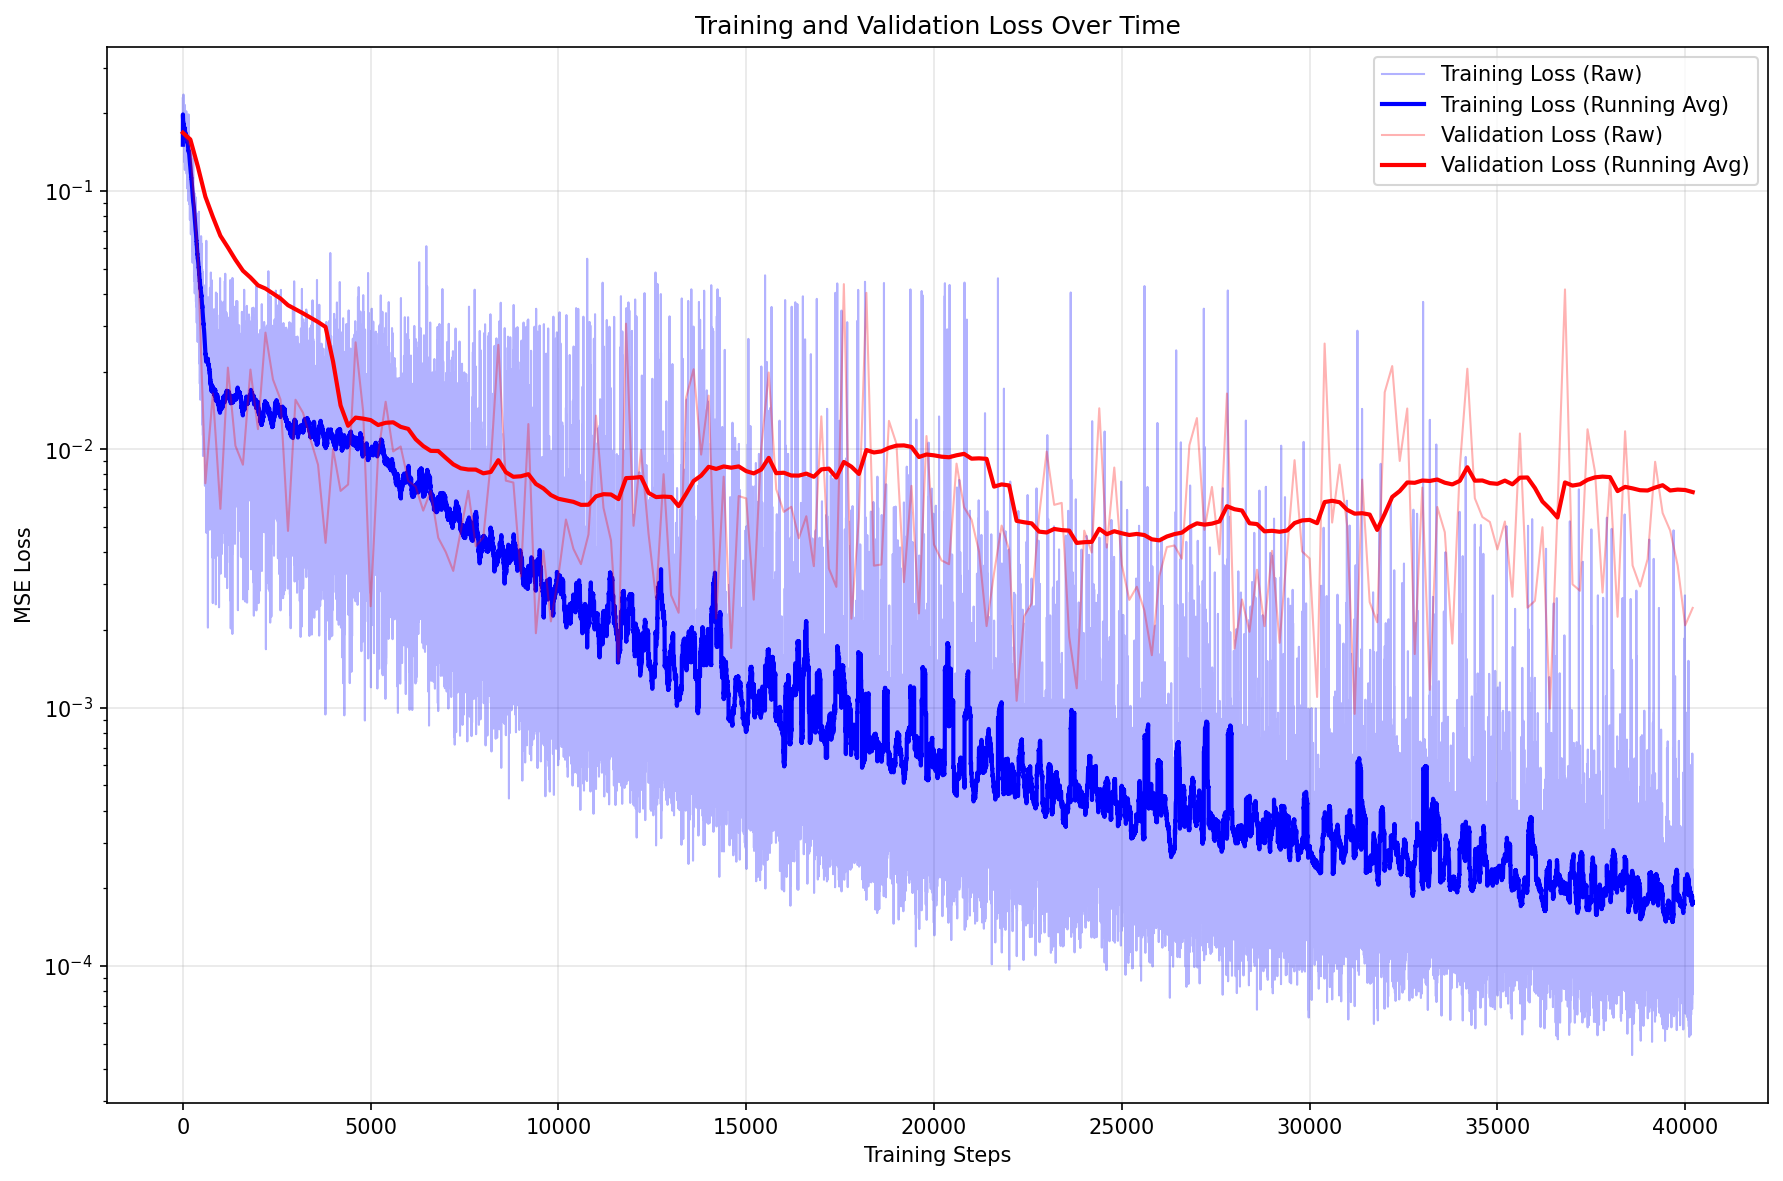
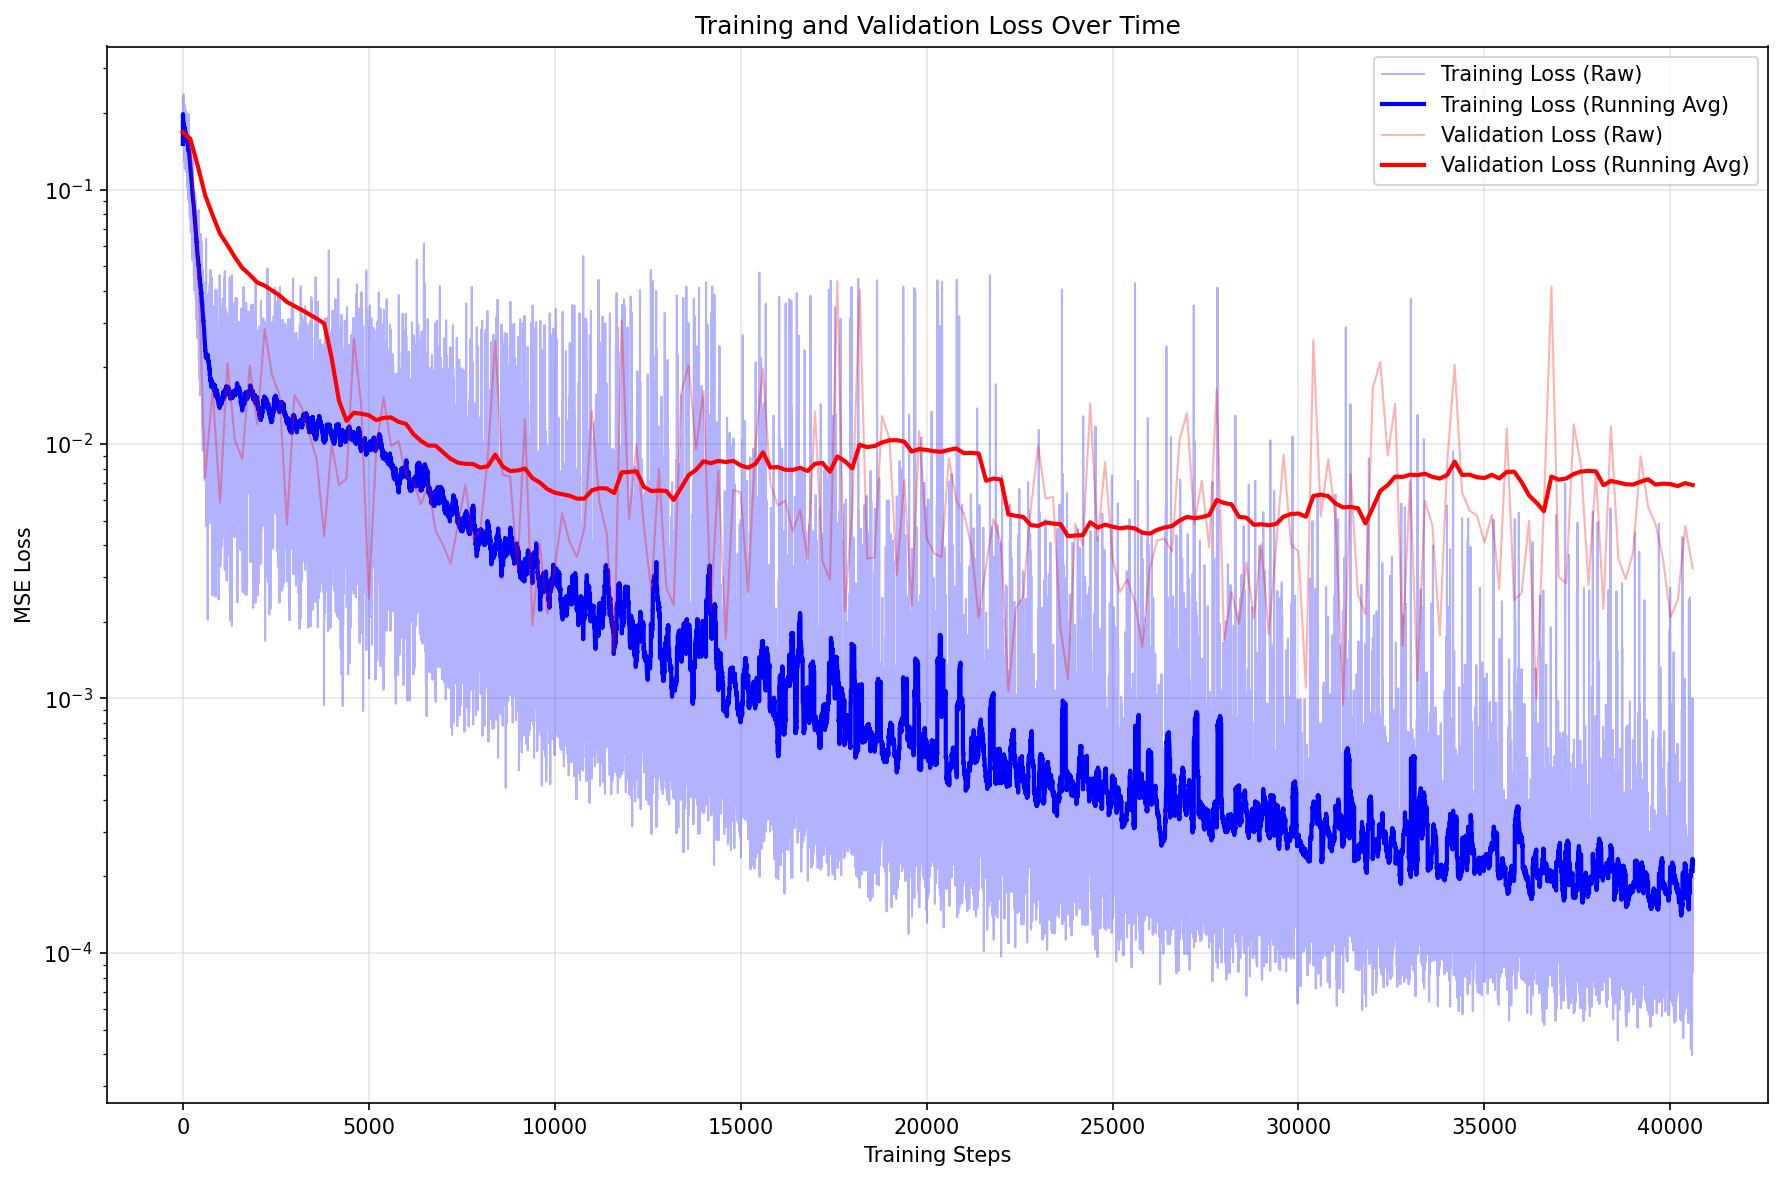
getting ready for the dropou

diff --git a/displacement_regressor_train_fixed.py b/displacement_regressor_train_fixed.py
@@ -605,6 +605,7 @@ def main():
     model = create_displacement_regressor(
         in_channels=1+7,  # 1 topology + 7 constraints (3 pf + 2 loads + 2 bcs)
         regressor_depth=args.regressor_depth,
+        dropout=args.dropout,
         **displacement_regressor_args
     )
     
@@ -995,6 +996,7 @@ def create_argparser():
         topology_masking=True,  # Enable topology region masking
         # Model architecture options
         regressor_depth=4,  # Depth of the regressor model
+        dropout=0.3,  # Dropout probability for regularization
         # Plotting options
         loss_running_avg_window=100,  # Window size for training loss running average
     )

diff --git a/topodiff/script_util.py b/topodiff/script_util.py
@@ -370,6 +370,7 @@ def create_displacement_regressor(
     regressor_attention_resolutions,
     regressor_use_scale_shift_norm,
     regressor_resblock_updown,
+    dropout=0.0,
 ):
     """
     Create a displacement field regressor using UNetModel (not EncoderUNetModel).
@@ -398,6 +399,7 @@ def create_displacement_regressor(
         out_channels=2,  # Displacement fields: Ux, Uy
         num_res_blocks=regressor_depth,
         attention_resolutions=tuple(attention_ds),
+        dropout=dropout,
         channel_mult=channel_mult,
         use_fp16=regressor_use_fp16,
         num_head_channels=64,
